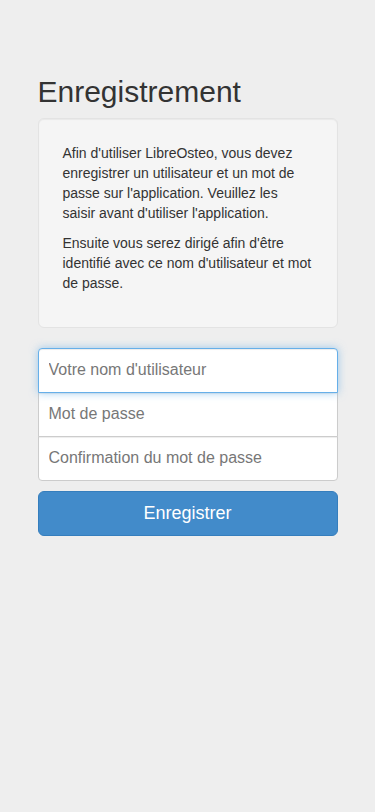
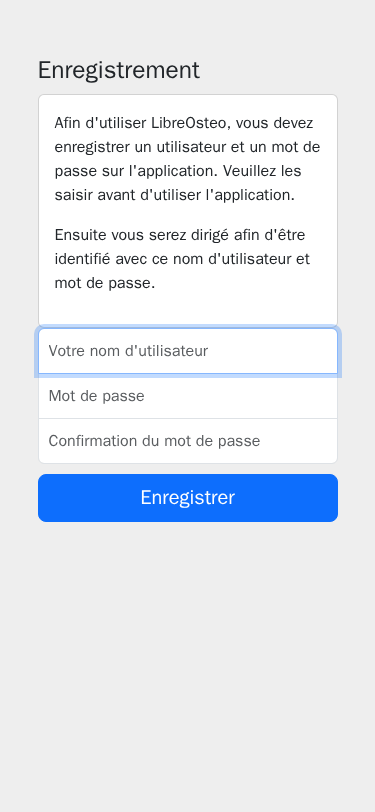
refactor: basculer les deux documents de compte sur bootstrap 5 (D6g T2)
Les deux seuls documents qui chargeaient css/bootstrap.css, non minifie : 23 Ko de plus
que necessaire sur la page la plus souvent servie du produit.

login.html refermait son bloc {% compress %} apres </head> (F13) : django-compressor
ecarte du rendu tout ce qui n'est ni <link> ni <style>, la balise </head> comprise.
create_admin_account.html etait deja correct -- les deux pages n'etaient pas jumelles.

La passe au navigateur a trouve une regression que la table de correspondance ne pouvait
pas voir : glyphicon-exclamation-sign devient fa-exclamation-circle (A10), mais login.html
ne chargeait jamais font-awesome (il n'etend pas base.html) -- l'icone d'erreur aurait
disparu. Ajoutee au meme bloc {% compress %} que bootstrap.

Occurrences reprises sur les deux gabarits : 8 -> 1 et 4 -> 1. Le reliquat de 1 dans
chacun est le jeton `checkbox` du commentaire HTML mort (lignes 56-58), volontairement
non reecrit (brief T2). outils/tests/test_rupture_bs5.py mis a jour en consequence : la
garde des sept jetons ajoutes par T1 mesure le depot en direct, pas un instantane fige
(89829a4) -- btn-block y perd 2 sites, 13 -> 11.

Fiches R-VIS-01 et R-VIS-02 : attendus ecrits, quatre captures ecrasees. profil-375.png,
touche par le meme rejeu de l'instrument (flakiness pre-existante et sans rapport,
confirmee par deux rejeux consecutifs), restaure a l'identique -- hors perimetre de T2.

Changed region(s): [[0.088, 0.4002, 0.9093, 0.6773], [0.088, 0.0616, 0.8507, 0.3695]]

diff --git a/libreosteoweb/templates/account/login.html b/libreosteoweb/templates/account/login.html
@@ -1,4 +1,5 @@
 {% load i18n %}
+{% load static %}
 {% load compress %}
 <!DOCTYPE html>
 <html lang="en"><head><meta http-equiv="Content-Type" content="text/html; charset=UTF-8">
@@ -12,19 +13,11 @@
     <title>{% trans  "Signin on LibreOsteo" %}</title>
 
     {% compress css %}
-    <!-- Bootstrap core CSS -->
-    <link href="{{ STATIC_URL }}css/bootstrap.css" rel="stylesheet">
-
-    <!-- Custom styles for this template -->
-    <link href="{{ STATIC_URL }}css/signin.css" rel="stylesheet">
-
-    <!-- HTML5 shim and Respond.js IE8 support of HTML5 elements and media queries -->
-    <!--[if lt IE 9]>
-      <script src="https://oss.maxcdn.com/libs/html5shiv/3.7.0/html5shiv.js"></script>
-      <script src="https://oss.maxcdn.com/libs/respond.js/1.3.0/respond.min.js"></script>
-    <![endif]-->
-  <style type="text/css"></style></head>
-  {% endcompress %}
+    <link href="{% static "components/bootstrap/dist/css/bootstrap.min.css" %}" rel="stylesheet">
+    <link href="{% static "font-awesome/css/font-awesome.min.css" %}" rel="stylesheet">
+    <link href="{% static "css/signin.css" %}" rel="stylesheet">
+    {% endcompress %}
+  </head>
 
   <body>
 
@@ -34,7 +27,7 @@
           {% csrf_token %}
         <h2 class="form-signin-heading">{% trans "Please sign in" %}</h2>
         {% if demonstration %}
-        <div class="well well-lg">
+        <div class="card card-body">
           <p>Pour vous identifier, vous pouvez utiliser 2 utilisateurs enregistrés, le mot de passe est identique à l'utilisateur.
           Ainsi l'utilisateur "demo" aura pour mot de passe "demo".</p>
           <ul>
@@ -45,19 +38,19 @@
         {% endif %}
         {% if form.errors %}
           <p class="alert alert-danger" data-testid="erreur-connexion">
-              <span class="glyphicon glyphicon-exclamation-sign" aria-hidden="true"></span>
+              <span class="fa fa-exclamation-circle" aria-hidden="true"></span>
             {% trans "Your username and password didn't match. Please try again." %}
           </p>
         {% endif %}
-        <div class="form-group {% if form.errors %}has-error{% endif %}">
-          <input type="text" name="username" class="form-control" placeholder="{% trans "Your login" %}" required="" autofocus="">
-          <input type="password" name="password" class="form-control" placeholder="{%  trans "Password" %}" required="">
+        <div class="mb-3">
+          <input type="text" name="username" class="form-control{% if form.errors %} is-invalid{% endif %}" placeholder="{% trans "Your login" %}" required="" autofocus="">
+          <input type="password" name="password" class="form-control{% if form.errors %} is-invalid{% endif %}" placeholder="{%  trans "Password" %}" required="">
         </div>
         <!--<label class="checkbox">
           <input type="checkbox" value="remember-me"> {% trans "Remember me" %}
         </label>-->
         <input type="hidden" name="next" value="{{ next|escape }}" />
-        <button class="btn btn-lg btn-primary btn-block" type="submit" value="login">{% trans "Sign in" %}</button>
+        <button class="btn btn-lg btn-primary w-100" type="submit" value="login">{% trans "Sign in" %}</button>
       </form>
 
     </div> <!-- /container -->

diff --git a/libreosteoweb/templates/account/create_admin_account.html b/libreosteoweb/templates/account/create_admin_account.html
@@ -1,4 +1,5 @@
 {% load i18n %}
+{% load static %}
 {% load compress %}
 <!DOCTYPE html>
 <html lang="en"><head><meta http-equiv="Content-Type" content="text/html; charset=UTF-8">
@@ -12,11 +13,8 @@
     <title>{% trans  "Create admin account on LibreOsteo" %}</title>
 
     {% compress css %}
-    <!-- Bootstrap core CSS -->
-    <link href="{{ STATIC_URL }}css/bootstrap.css" rel="stylesheet">
-
-     <!-- Custom styles for this template -->
-    <link href="{{ STATIC_URL }}css/signin.css" rel="stylesheet">
+    <link href="{% static "components/bootstrap/dist/css/bootstrap.min.css" %}" rel="stylesheet">
+    <link href="{% static "css/signin.css" %}" rel="stylesheet">
     {% endcompress %}
 
     <!-- HTML5 shim and Respond.js IE8 support of HTML5 elements and media queries -->
@@ -45,7 +43,7 @@
             </div>
           {% endfor %}
         {% endif %}
-        <div class="well well-lg">
+        <div class="card card-body">
           <p>{% trans 'In order to use LibreOsteo, you have to register a login and password on the application. Please select it before to use the application.' %}</p>
 
           <p>{% trans 'Then you will be redirected to be identified with this login and password.' %}</p>
@@ -57,7 +55,7 @@
           <input type="checkbox" value="remember-me"> {% trans "Remember me" %}
         </label>-->
         <input type="hidden" name="next" value="{{ next|escape }}" />
-        <button class="btn btn-lg btn-primary btn-block" type="submit" value="login">{% trans "Register" %}</button>
+        <button class="btn btn-lg btn-primary w-100" type="submit" value="login">{% trans "Register" %}</button>
       </form>
 
     </div> <!-- /container -->

diff --git a/outils/tests/test_rupture_bs5.py b/outils/tests/test_rupture_bs5.py
@@ -46,7 +46,8 @@ def test_une_balise_django_dans_l_attribut_class_ne_produit_pas_de_jeton(
 # par famille de l'etape 2 bis -- et ce sont ces quatre-la, les seuls qu'aucun document
 # anterieur ne nomme, qu'une garde a le plus de raisons de tenir.
 AJOUTS_DE_T1 = {
-    "btn-block": ("w-100", 3),
+    # 3 au 2026-09-19 (T1) ; 2 repris par D6g T2 (login.html, create_admin_account.html).
+    "btn-block": ("w-100", 1),
     "well-md": ("card", 2),
     "well-sm": ("card", 0),
     "left": (None, 3),
@@ -64,22 +65,27 @@ def test_les_sept_jetons_ajoutes_par_t1_sont_dans_la_table() -> None:
     `fa-1`, `fa-wrench-o`) et en pesent **8**. Total : **13**, soit l'ecart entre les 580
     occurrences du cadrage et les 593 qui font autorite pour les clauses d'arret 1 et 4.
 
-    Cette garde tient la table, pas la mesure : c'est `test_la_mesure_du_depot_pese_bien_
-    treize_occurrences_pour_ces_sept_jetons` qui tient les comptes.
+    Cette garde tient la table, pas la mesure : c'est `test_la_mesure_du_depot_pese_les_
+    occurrences_de_ces_sept_jetons` qui tient les comptes.
     """
     for jeton, (equivalent, _) in AJOUTS_DE_T1.items():
         assert jeton in RUPTURE, f"{jeton} a quitte la table"
         assert RUPTURE[jeton] == equivalent, f"{jeton} a change d'equivalent"
 
 
-def test_la_mesure_du_depot_pese_bien_treize_occurrences_pour_ces_sept_jetons() -> None:
+def test_la_mesure_du_depot_pese_les_occurrences_de_ces_sept_jetons() -> None:
     """Ce que les sept jetons pesent reellement dans les gabarits du depot.
 
     Sans ce test, la garde ci-dessus resterait verte sur une table juste et une mesure
-    fausse : c'est le **nombre** de sites qui fait 580 -> 593, pas la presence des clefs.
+    fausse : c'est le **nombre** de sites qui fait 580 -> 593 au cadrage (clause d'arret
+    1). Le compte n'est fige qu'a cette date : il baisse ensuite, tache d'ecran par tache
+    d'ecran, jusqu'a 0 a la clause d'arret 4 -- `AJOUTS_DE_T1` est donc mis a jour par
+    chaque tache qui reprend l'un des sept jetons, dans le commit qui le reprend. **13**
+    au 2026-09-19 (T1) ; **11** depuis D6g T2, qui a repris `btn-block` sur les deux
+    documents de compte.
     """
     jetons, _ = occurrences(RACINE / "libreosteoweb" / "templates")
     releve = {jeton: jetons[jeton] for jeton in AJOUTS_DE_T1}
 
     assert releve == {jeton: n for jeton, (_, n) in AJOUTS_DE_T1.items()}
-    assert sum(releve.values()) == 13
+    assert sum(releve.values()) == 11

diff --git a/docs/recette.md b/docs/recette.md
@@ -3753,11 +3753,23 @@ et `connexion-375.png`.
 **Étapes**
 
 1. Ouvrir l'URL racine de l'instance, fenêtre à **1 280 px de large**.
-   Attendu : <écrit par T2>
+   Attendu : le formulaire est centré horizontalement dans la fenêtre ; le texte « Veuillez
+   vous identifier » est entièrement visible au-dessus des champs ; les deux champs
+   (« Votre nom d'utilisateur », « Mot de passe ») et le bouton « Identification » font la
+   même largeur ; aucune barre de défilement horizontale.
 2. Ramener la fenêtre à **375 px de large**.
-   Attendu : <écrit par T2>
+   Attendu : le formulaire occupe la largeur de l'écran moins ses marges ; les deux champs
+   et le bouton restent empilés et de largeur égale ; aucune barre de défilement
+   horizontale.
+3. Saisir un mot de passe faux et soumettre.
+   Attendu : le bandeau rouge « Votre nom d'utilisateur et mot de passe ne correspondent
+   pas. Veuillez réessayer s'il vous plaît. » s'affiche au-dessus des champs, avec une
+   icône d'avertissement à sa gauche ; les deux champs sont bordés de rouge, chacun avec
+   une icône d'alerte à sa droite.
 
-**Ne couvre pas** : <écrit par T2>
+**Ne couvre pas** : le contenu du message d'erreur (couvert par
+`tests/functional/test_authentification.py::test_connexion_invalide`), ni la page de
+création du premier compte (R-VIS-02).
 
 ### R-VIS-02 — Socle visuel : création du premier compte
 
@@ -3773,11 +3785,17 @@ et `premier-compte-375.png`.
 **Étapes**
 
 1. Ouvrir `/accounts/create-admin/` sur une base vierge, fenêtre à **1 280 px de large**.
-   Attendu : <écrit par T2>
+   Attendu : le formulaire est centré horizontalement dans la fenêtre ; le titre
+   « Enregistrement » est entièrement visible au-dessus du bloc d'instructions ; les trois
+   champs (nom d'utilisateur, mot de passe, confirmation du mot de passe) et le bouton
+   « Enregistrer » font la même largeur ; aucune barre de défilement horizontale.
 2. Ramener la fenêtre à **375 px de large**.
-   Attendu : <écrit par T2>
+   Attendu : le formulaire occupe la largeur de l'écran moins ses marges ; les trois champs
+   et le bouton restent empilés et de largeur égale ; aucune barre de défilement
+   horizontale.
 
-**Ne couvre pas** : <écrit par T2>
+**Ne couvre pas** : le contenu du formulaire d'enregistrement, couvert par ses tests
+fonctionnels dédiés, ni la page de connexion (R-VIS-01).
 
 ### R-VIS-03 — Socle visuel : bandeau, menu latéral et gabarit commun
 
